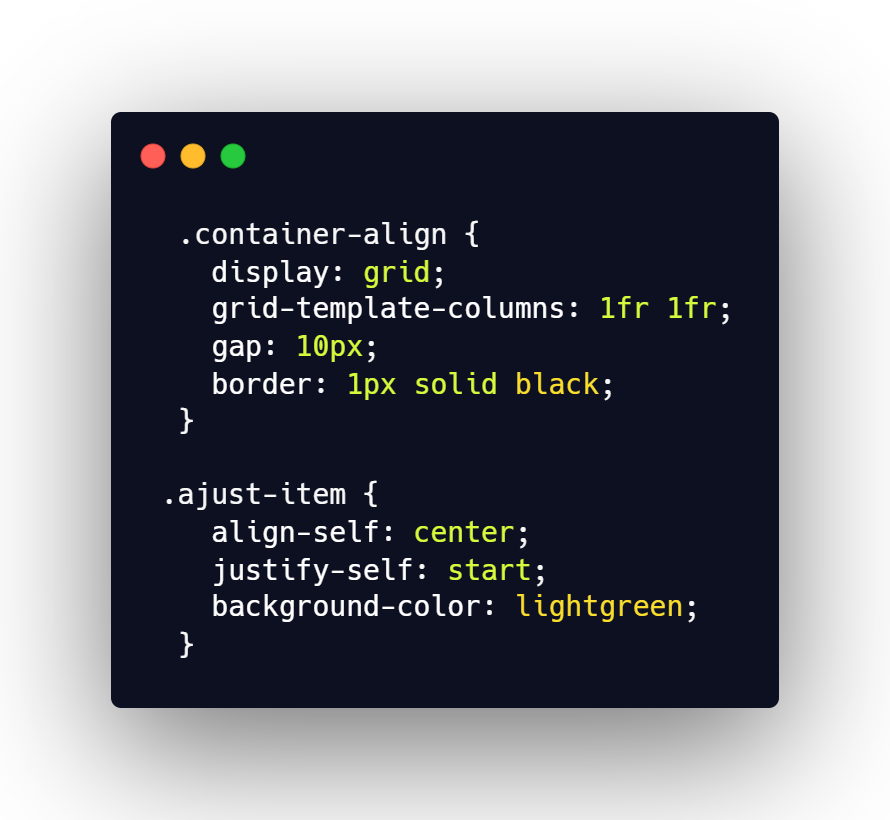
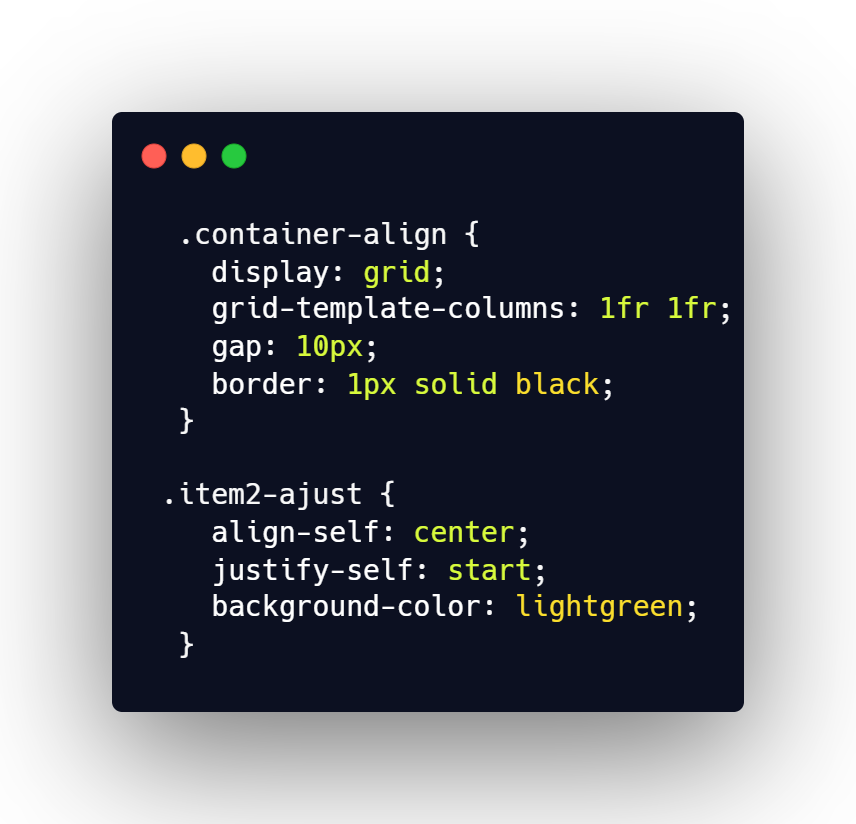
prez finale

diff --git a/src/style/style_fael.css b/src/style/style_fael.css
@@ -121,13 +121,13 @@ body {
     padding: 20px;
   }
   
- .item-special-1 {
+ .item4-1 {
     grid-column: 2 / 4; 
     grid-row: 1 / 2;   
     background-color: lightgreen !important;
   }
   
- .item-special-2 {
+ .item4-2 {
     grid-column: 2 / 3; 
     grid-row: 1 / 3;   
     background-color: lightgreen !important;
@@ -147,13 +147,13 @@ body {
     padding: 20px;
   }
   
- .ajust-item {
+ .item2-ajust {
     align-self: center; 
     justify-self: start; 
     background-color: lightgreen !important;
   }
   
-  .ajust-item-2 {
+  .item2-ajust-2 {
     align-self: center; 
     justify-self: end; 
     background-color: lightgreen !important;

diff --git a/src/ajustement_position/ajustement_item_2.html b/src/ajustement_position/ajustement_item_2.html
@@ -16,7 +16,7 @@
     <h3>Exemple d'alignement d'un item à la fin de la colonne horizontalement avec la propriété justify-self</h3>
     <div class="container-align">
       <div>Item 1</div>
-      <div class="ajust-item-2">Item Spécial</div>
+      <div class="item2-ajust-2">Item Spécial</div>
     </div>
   </section>
 

diff --git a/src/fusion_colonnes/fusion_colonnes.html b/src/fusion_colonnes/fusion_colonnes.html
@@ -16,7 +16,7 @@
     <h3>Exemple de Fusion de deux colonnes et trois lignes</h3>
     <div class="container-merge">
       <div>Item 1</div>
-      <div class="item-merge">item Fusionné</div>
+      <div class="item-merge">Item 2</div>
       <div>Item 3</div>
       <div>Item 4</div>
       <div>Item 5</div>

diff --git a/src/ajustement_position/ajustement_item.html b/src/ajustement_position/ajustement_item.html
@@ -16,7 +16,7 @@
     <h3>Exemple d'alignement d'un item au début de la colonne horizontalement</h3>
     <div class="container-align">
       <div>Item 1</div>
-      <div class="ajust-item">Item Spécial</div>
+      <div class="item2-ajust">Item 2</div>
     </div>
   </section>
 

diff --git a/src/placement_specifique/placement_specifique.html b/src/placement_specifique/placement_specifique.html
@@ -18,7 +18,7 @@
       <div>Item 1</div>
       <div>Item 2</div>
       <div>Item 3</div>
-      <div class="item-special-1">Item special</div>
+      <div class="item4-1">Item 4</div>
     </div>
   </section>
 

diff --git a/src/placement_specifique/placement_specifique_2.html b/src/placement_specifique/placement_specifique_2.html
@@ -18,7 +18,7 @@
       <div>Item 1</div>
       <div>Item 2</div>
       <div>Item 3</div>
-      <div class="item-special-2">item-special</div>
+      <div class="item4-2">Item 4</div>
     </div>
   </section>
 
